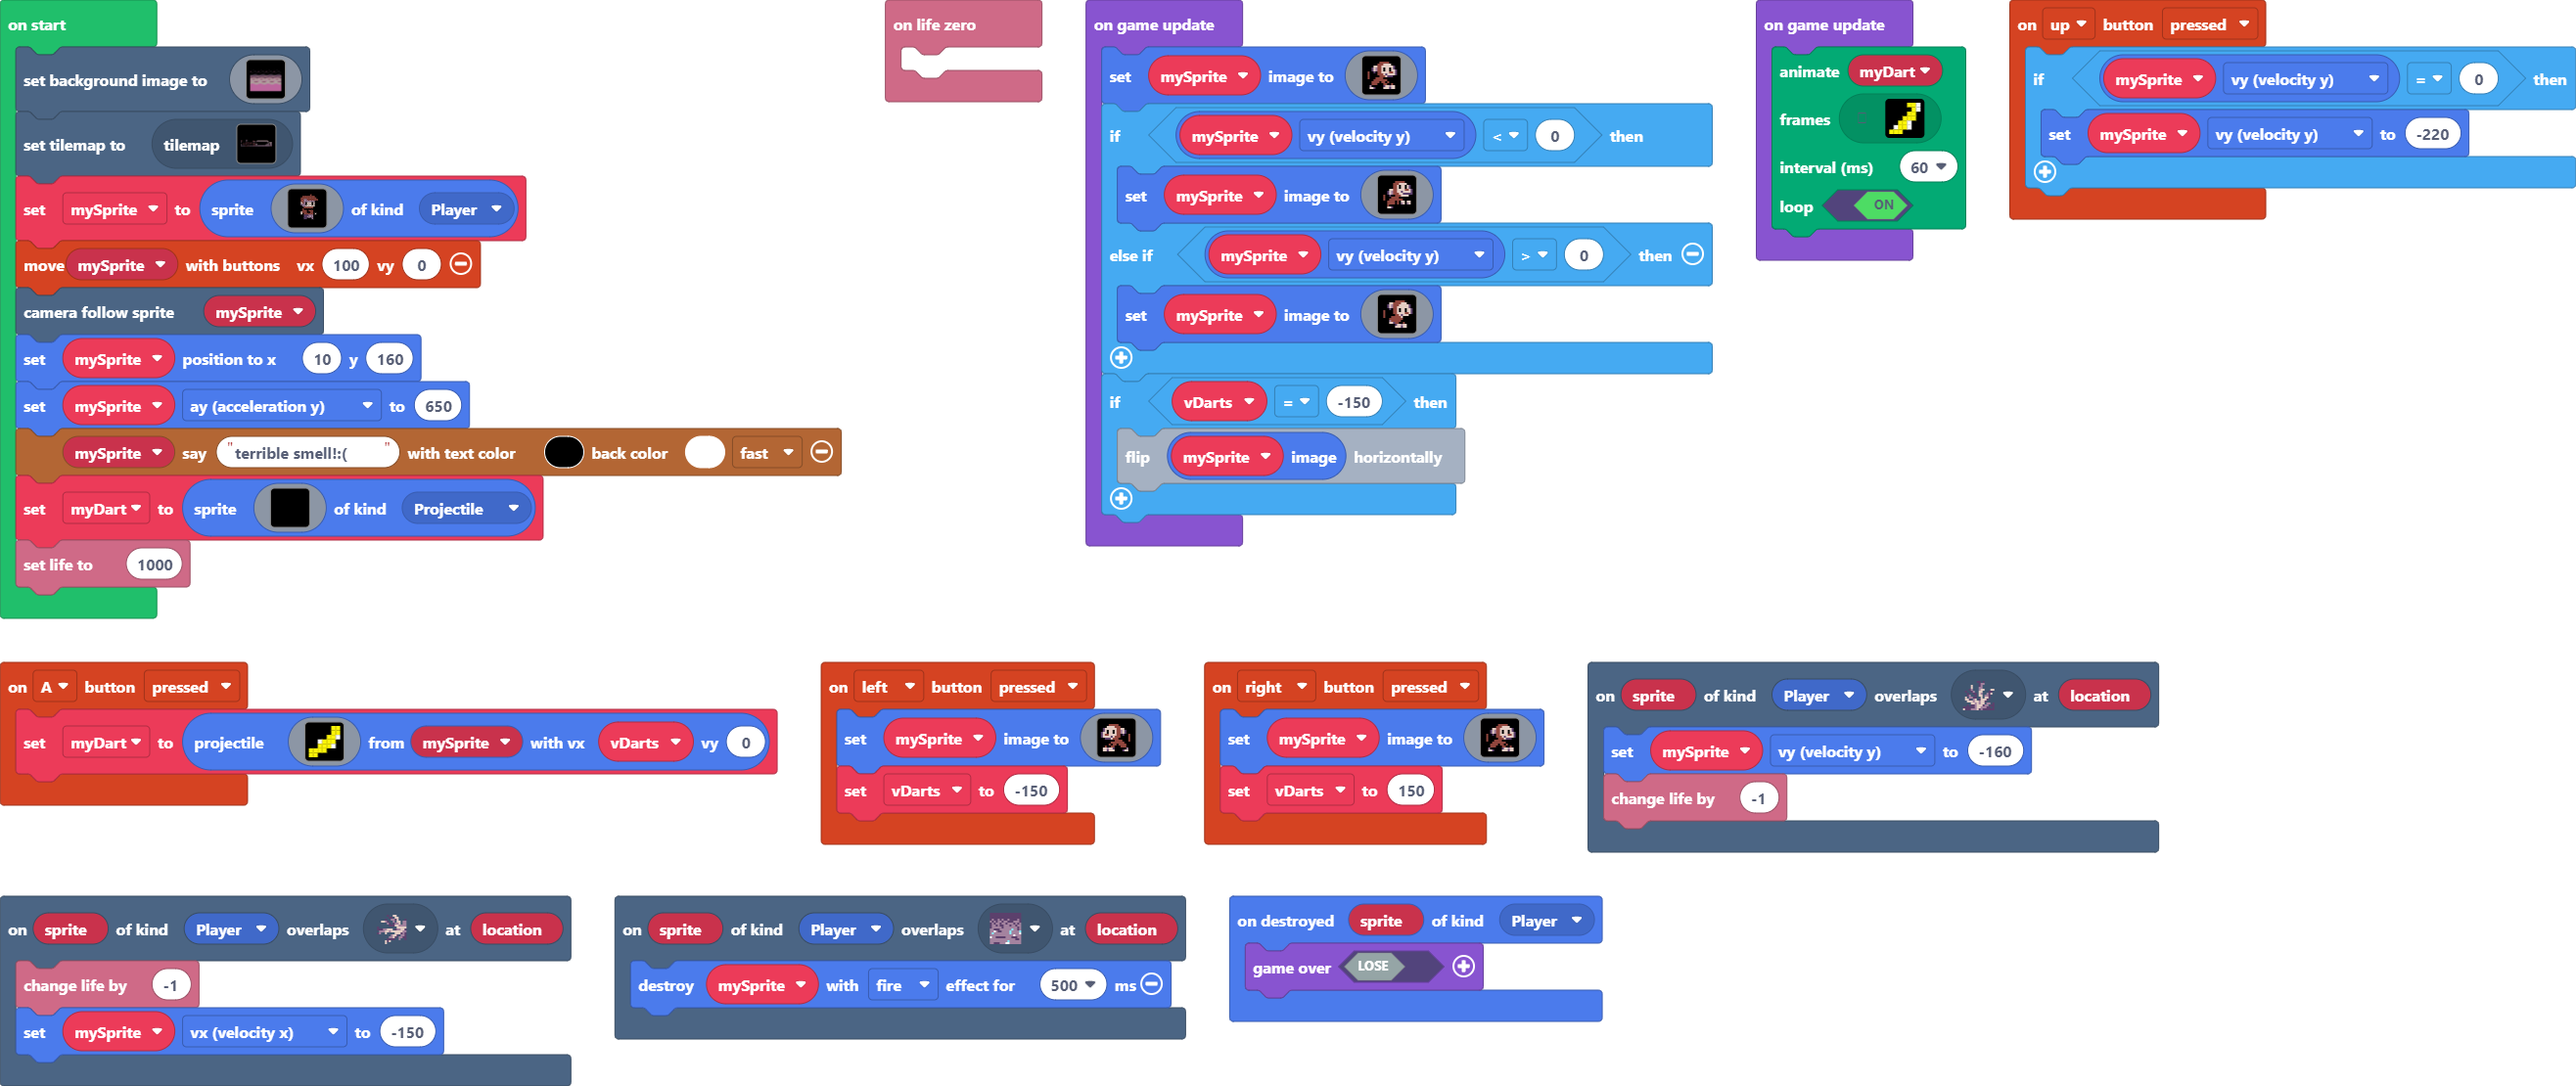
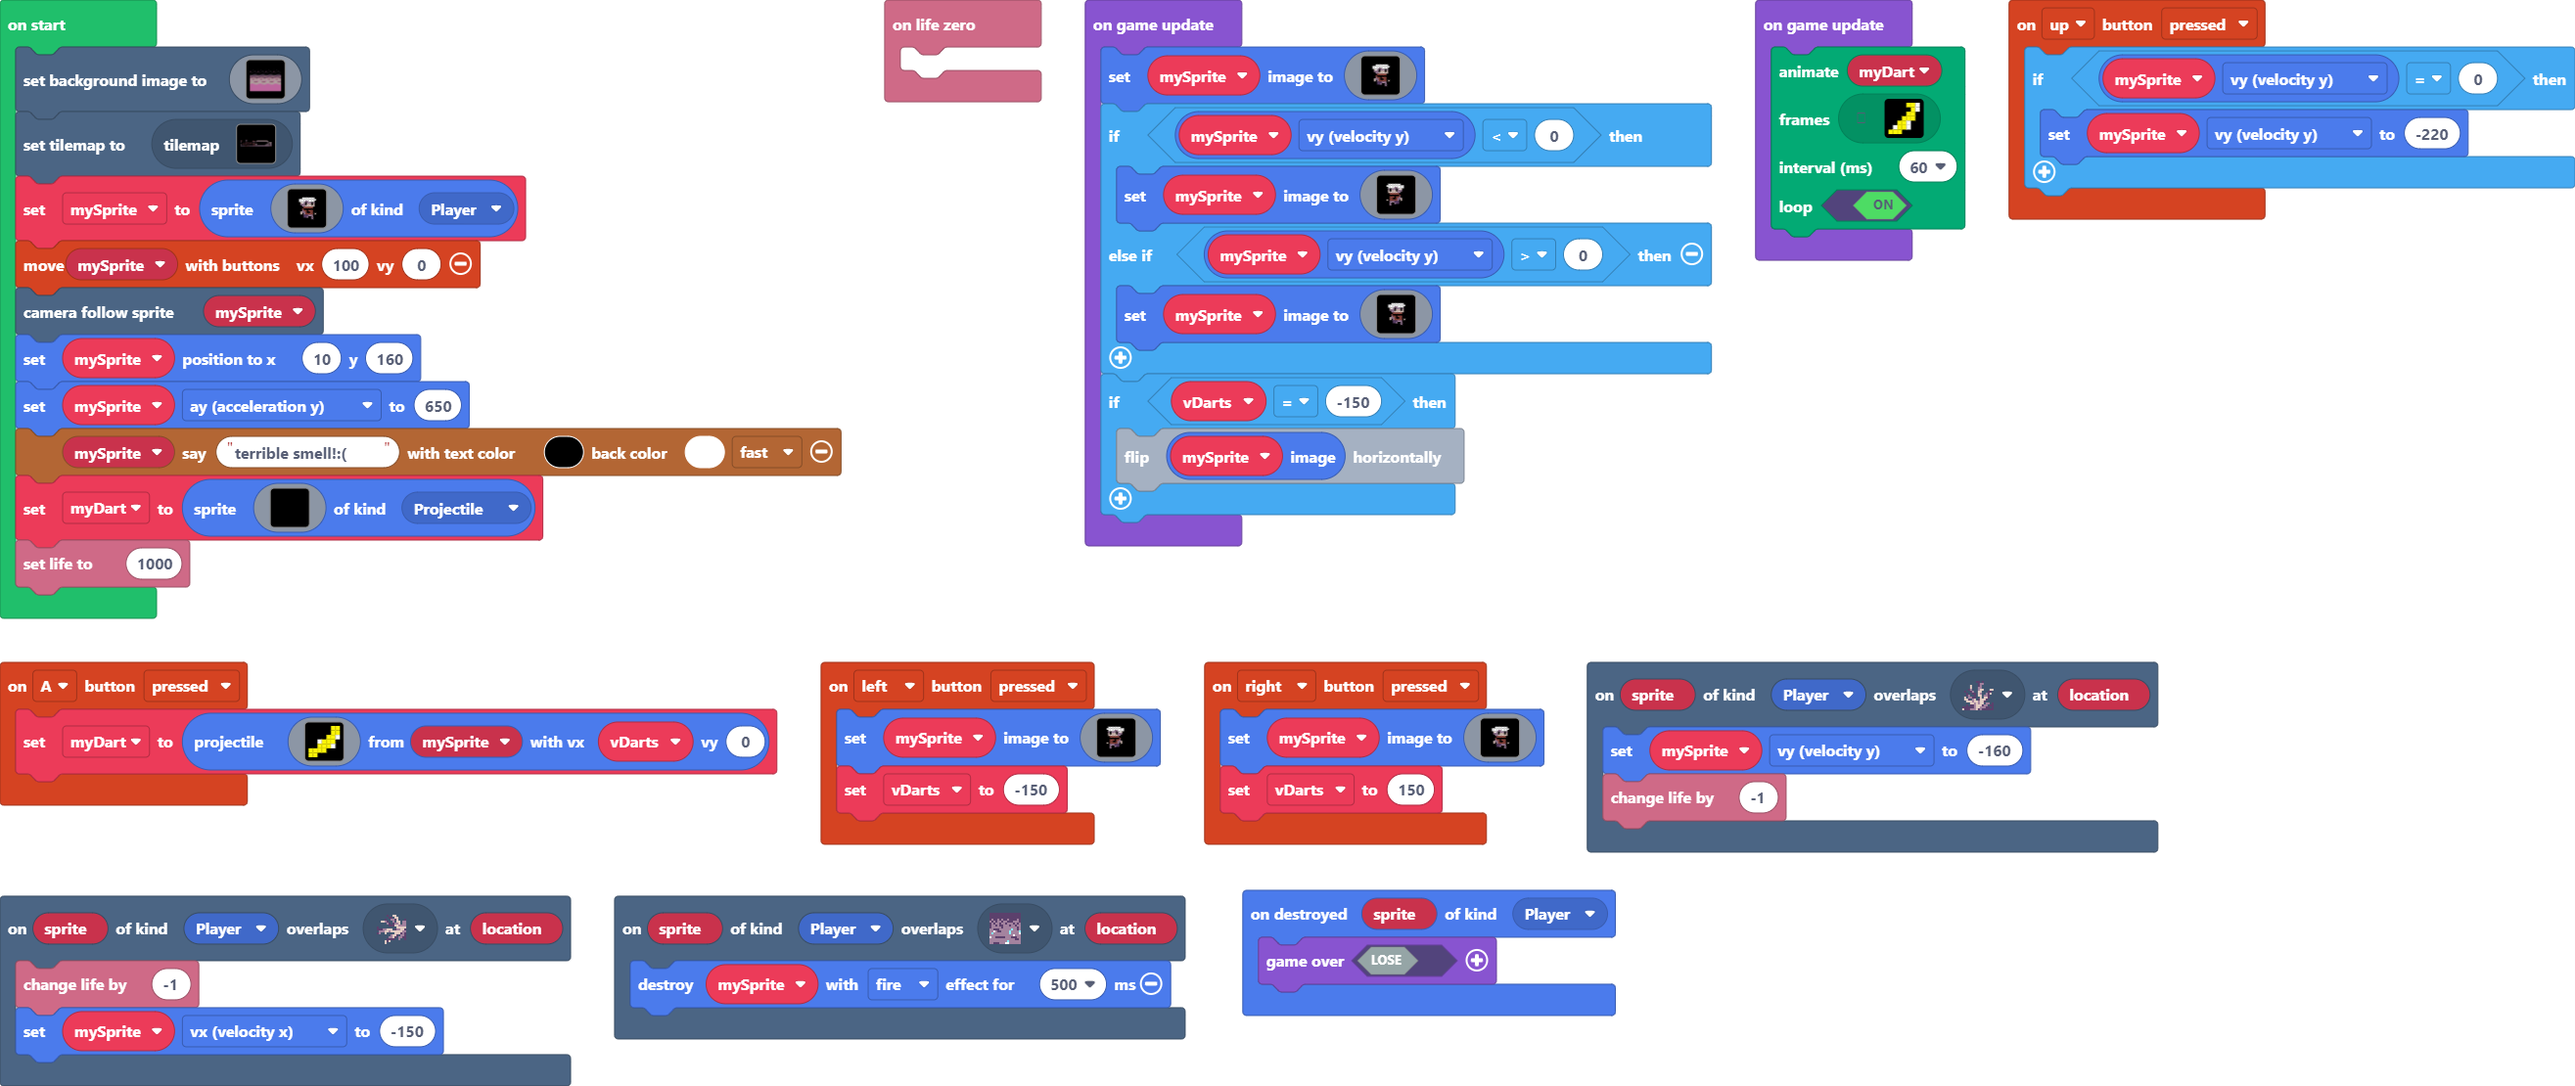
change white hair

diff --git a/main.ts b/main.ts
@@ -26,45 +26,11 @@ scene.onOverlapTile(SpriteKind.Player, assets.tile`myTile4`, function (sprite, l
     mySprite.destroy(effects.fire, 500)
 })
 controller.left.onEvent(ControllerButtonEvent.Pressed, function () {
-    mySprite.setImage(img`
-        . . . . f f f f f . . . . . . . 
-        . . . f e e e e e f . . . . . . 
-        . . f d d d d e e e f f . . . . 
-        . c d d d d d d e e d d f . . . 
-        . c d f d d f d e e b d c . . . 
-        c d d f d d f d e e b d c . f f 
-        c d e e d d d d e e f c . f e f 
-        c d d d d c d e e e f . . f e f 
-        . f c c c d e e e f f . . f e f 
-        . . f f f f f e e e e f . f e f 
-        . . . . f e e e e e e e f f f . 
-        . . f f e f e e f e e e e f . . 
-        . f e f f e e f f f e e e f . . 
-        f d d b d d c f f f f f f b f . 
-        f d d c d d d f . . f c d d f . 
-        . f f f f f f f . . . f f f . . 
-        `)
+    mySprite.setImage(assets.image`Main character1`)
     vDarts = -150
 })
 controller.right.onEvent(ControllerButtonEvent.Pressed, function () {
-    mySprite.setImage(img`
-        . . . . . . . f f f f f . . . . 
-        . . . . . . f e e e e e f . . . 
-        . . . . f f e e e d d d d f . . 
-        . . . f d d e e d d d d d d c . 
-        . . . c d b e e d f d d f d c . 
-        f f . c d b e e d f d d f d d c 
-        f e f . c f e e d d d d e e d c 
-        f e f . . f e e e d c d d d d c 
-        f e f . . f f e e e d c c c f . 
-        f e f . f e e e e f f f f f . . 
-        . f f f e e e e e e e f . . . . 
-        . . f e e e e f e e f e f f . . 
-        . . f e e e f f f e e f f e f . 
-        . f b f f f f f f c d d b d d f 
-        . f d d c f . . f d d d c d d f 
-        . . f f f . . . f f f f f f f . 
-        `)
+    mySprite.setImage(assets.image`Main character`)
     vDarts = 150
 })
 info.onLifeZero(function () {
@@ -199,28 +165,7 @@ scene.setBackgroundImage(img`
     3333333333333333333333333333333333333333333333333333333333333333333333333333333333333333333333333333333333333333333333333333333333333333333333333333333333333333
     `)
 tiles.setCurrentTilemap(tilemap`level1`)
-mySprite = sprites.create(img`
-    ..........f.....
-    .....fffffefff..
-    ....feeeeeeeef..
-    ...feeeeeeeeeef.
-    ...feebbeeeeeeef
-    ...feebbbbbbbff.
-    ...fdebfdddfdf..
-    ...fbbbfdddfdf..
-    ....fbbddddddf..
-    .....feeeeeef...
-    ....fefffffff...
-    ....feeefeeef...
-    ...fdeeeffeeff..
-    ...fdfeeeeeefdf.
-    ...fffcccbbbfff.
-    .....fccbbbbf...
-    .....fccf.fbf...
-    .....fff..ff....
-    ................
-    ................
-    `, SpriteKind.Player)
+mySprite = sprites.create(assets.image`Main character`, SpriteKind.Player)
 controller.moveSprite(mySprite, 100, 0)
 scene.cameraFollowSprite(mySprite)
 mySprite.setPosition(10, 160)
@@ -246,62 +191,11 @@ myDart = sprites.create(img`
     `, SpriteKind.Projectile)
 info.setLife(1000)
 game.onUpdate(function () {
-    mySprite.setImage(img`
-        . . . . . . . f f f f f . . . . 
-        . . . . . . f e e e e e f . . . 
-        . . . . f f e e e d d d d f . . 
-        . . . f d d e e d d d d d d c . 
-        . . . c d b e e d f d d f d c . 
-        f f . c d b e e d f d d f d d c 
-        f e f . c f e e d d d d e e d c 
-        f e f . . f e e e d c d d d d c 
-        f e f . . f f e e e d c c c f . 
-        f e f . f e e e e f f f f f . . 
-        . f f f e e e e e e e f . . . . 
-        . . f e e e e f e e f e f f . . 
-        . . f e e e f f f e e f f e f . 
-        . f b f f f f f f c d d b d d f 
-        . f d d c f . . f d d d c d d f 
-        . . f f f . . . f f f f f f f . 
-        `)
+    mySprite.setImage(assets.image`Main character`)
     if (mySprite.vy < 0) {
-        mySprite.setImage(img`
-            . . . . . . . f f f f f . . . . 
-            . . . . . . f e e e e e f . . . 
-            . . . . . f e e e d d d d f . . 
-            . . . . . f e e d f d d f d c . 
-            . . . . f f e e d f d d f d c . 
-            . . . f d d e e d d d d e e d c 
-            . . . c d b e e d d c d d d d c 
-            f f . c d b e e e d d c c c c c 
-            f e f . c f f e e e d d d d f . 
-            f e f . f e e e e f f f f f f . 
-            f e f f e e e e e e e f f f f . 
-            . f f e e e e f e f d d f d d f 
-            . . f e e e e f e f b d f b d f 
-            . . f e f f f f f f f f f f f f 
-            . . f d d c f . . . . . . . . . 
-            . . f f f f . . . . . . . . . . 
-            `)
+        mySprite.setImage(assets.image`Main character1`)
     } else if (mySprite.vy > 0) {
-        mySprite.setImage(img`
-            . . . . . . . f f f f f . . . . 
-            . . . . f f f e e e e e f . . . 
-            . . . f d d e e e e d d d f . . 
-            . . . c d b e e e d d d d d c . 
-            . . . c d b e e d d d d d d c . 
-            . f f . c f e e d f d d f d d c 
-            f e f . . f e e d f d d f d d c 
-            f e f . . f e e d d d d e e d c 
-            f e f . . f f e e d c d d d f . 
-            f e f . f e e e e e d f f f . . 
-            . f f f e e e e e e e f . . . . 
-            . . f f b e e e e e f f . . . . 
-            . . f f d d c e e f f e f . . . 
-            . . . . f f f c d d b d d f . . 
-            . . . . . f f d d d c d d f . . 
-            . . . . . . f f f f f f f . . . 
-            `)
+        mySprite.setImage(assets.image`Main character`)
     }
     if (vDarts == -150) {
         mySprite.image.flipX()

diff --git a/images.g.ts b/images.g.ts
@@ -3,14 +3,119 @@ namespace myImages {
 
     helpers._registerFactory("image", function(name: string) {
         switch(helpers.stringTrim(name)) {
-
+            case "image1":
+            case "Main character0":return img`
+.....f..........
+..fff1fffff.....
+..f11111111f....
+.f1111111111f...
+f1111111bb11f...
+.ffbbbbbbb11f...
+..fdfdddfb1df...
+..fdfdddfbbbf...
+..fddddddbbf....
+...feeeeeef.....
+...fffffffef....
+...feeefeeef....
+..ffeeffeeedf...
+.fdfeeeeeefdf...
+.fffbbbcccfff...
+...fbbbbccf.....
+...fbf.fccf.....
+....ff..fff.....
+...fff..ff......
+................
+`;
+            case "7[-=fLG=Q7OK+WS{0Q2I":
+            case "Main character":return img`
+................
+................
+.....ffffffff...
+....f11111111f..
+...11111111111f.
+...1111bb1111ff.
+...fd1bfbbbfbf..
+...fbbbfdddfdf..
+....fbbddddddf..
+.....feeeeeef...
+....fefffffff...
+....fbeefeeef...
+...fdbbeffeeff..
+...fdfbeeeeefdf.
+...fffcccbbbfff.
+.....fccbffb....
+......ff..fb....
+......ff..ff....
+................
+................
+`;
+            case "image2":
+            case "Main character1":return img`
+................
+................
+...ffffffff.....
+..f11111111f....
+.f11111111111...
+.ff1111bb1111...
+..fbfbbbfb1df...
+..fdfdddfbbbf...
+..fddddddbbf....
+...feeeeeef.....
+...fffffffef....
+...feeefeebf....
+..ffeeffebbdf...
+.fdfeeeeebfdf...
+.fffbbbcccfff...
+....bffbccf.....
+....bf..ff......
+....ff..ff......
+................
+................
+`;
         }
         return null;
     })
 
     helpers._registerFactory("animation", function(name: string) {
         switch(helpers.stringTrim(name)) {
-
+            case "myAnim":
+            case "anim1":return [img`
+. . . . . . . . . . . . . . . . 
+. . . . . . . . . . . . . . . . 
+. . . . . . . . . . . . . . . . 
+. . . . . . . . . . . . . . . . 
+. . . . . . . . . . . . . . . . 
+. . . . . . . . . . . . . . . . 
+. . . . . . . . . . . . . . . . 
+. . . . . . . . . . . . . . . . 
+. . . . . . . . . . . . . . . . 
+. . . . . . . . . . . . . . . . 
+. . . . . . . . . . . . . . . . 
+. . . . . . . . . . . . . . . . 
+. . . . . . . . . . . . . . . . 
+. . . . . . . . . . . . . . . . 
+. . . . . . . . . . . . . . . . 
+. . . . . . . . . . . . . . . . 
+`];
+            case "myAnim0":
+            case "anim2":return [img`
+. . . . . . . . . . . . . . . . 
+. . . . . . . . . . . . . . . . 
+. . . . . . . . . . . . . . . . 
+. . . . . . . . . . . . . . . . 
+. . . . . . . . . . . . . . . . 
+. . . . . . . . . . . . . . . . 
+. . . . . . . . . . . . . . . . 
+. . . . . . . . . . . . . . . . 
+. . . . . . . . . . . . . . . . 
+. . . . . . . . . . . . . . . . 
+. . . . . . . . . . . . . . . . 
+. . . . . . . . . . . . . . . . 
+. . . . . . . . . . . . . . . . 
+. . . . . . . . . . . . . . . . 
+. . . . . . . . . . . . . . . . 
+. . . . . . . . . . . . . . . . 
+`];
         }
         return null;
     })

diff --git a/tilemap.g.ts b/tilemap.g.ts
@@ -93,25 +93,6 @@ namespace myTiles {
 2......................2..2..2..2222...22..22222222222222222222222.22.22...2222.
 ..........2222222..222.................22...22....22....22....2222.22.22...2222.
 `, [myTiles.transparency16,myTiles.tile5,myTiles.tile6,sprites.dungeon.floorDark3,sprites.dungeon.floorDark4,sprites.dungeon.floorDark0,sprites.dungeon.floorDark1,myTiles.tile9,myTiles.tile10,myTiles.tile11,myTiles.tile12,myTiles.tile13,myTiles.tile14,myTiles.tile18,myTiles.tile19,myTiles.tile20,myTiles.tile21,myTiles.tile22,myTiles.tile23,myTiles.tile24,myTiles.tile25,myTiles.tile26,myTiles.tile2,myTiles.tile17,sprites.dungeon.floorLight3,sprites.dungeon.floorLightMoss,sprites.dungeon.floorLight4,sprites.dungeon.floorDark5,sprites.dungeon.floorLight2,sprites.dungeon.floorLight5,sprites.dungeon.floorMixed,sprites.dungeon.floorDark2,sprites.dungeon.chestClosed,myTiles.tile3,myTiles.tile4], TileScale.Sixteen);
-            case "level3":
-            case "level3":return tiles.createTilemap(hex`1000100000000000000000000000000000000000000000000000000000000000000000000000000000000000000000000000000000000000000000000000000000000000000000000000000000000000000000000000000000000000000000000000000000000000000000000000000000000000000000000000000000000000000000000000000000000000000000000000000000000000000000000000000000000000000000000000000000000000000000000000000000000000000000000000000000000000000000000000000000000000000000000000000000000000000000000000000000000000000000000000000000000000000000000000000000000000`, img`
-. . . . . . . . . . . . . . . . 
-. . . . . . . . . . . . . . . . 
-. . . . . . . . . . . . . . . . 
-. . . . . . . . . . . . . . . . 
-. . . . . . . . . . . . . . . . 
-. . . . . . . . . . . . . . . . 
-. . . . . . . . . . . . . . . . 
-. . . . . . . . . . . . . . . . 
-. . . . . . . . . . . . . . . . 
-. . . . . . . . . . . . . . . . 
-. . . . . . . . . . . . . . . . 
-. . . . . . . . . . . . . . . . 
-. . . . . . . . . . . . . . . . 
-. . . . . . . . . . . . . . . . 
-. . . . . . . . . . . . . . . . 
-. . . . . . . . . . . . . . . . 
-`, [myTiles.transparency16], TileScale.Sixteen);
             case "level4":
             case "level4":return tiles.createTilemap(hex`1000100000000000000000000000000000000000000000000000000000000000000000000000000000000000000000000000000000000000000000000000000000000000000000000000000000000000000000000000000000000000000000000000000000000000000000000000000000000000000000000000000000000000000000000000000000000000000000000000000000000000000000000000000000000000000000000000000000000000000000000000000000000000000000000000000000000000000000000000000000000000000000000000000000000000000000000000000000000000000000000000000000000000000000000000000000000000`, img`
 . . . . . . . . . . . . . . . . 
